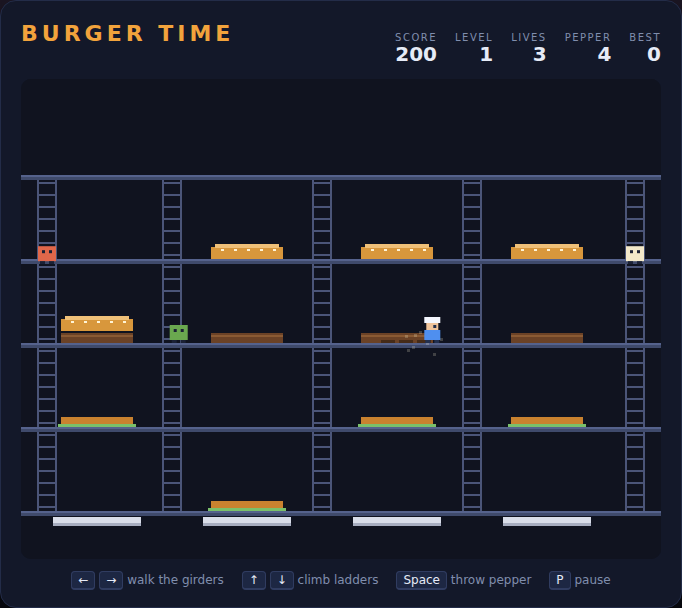
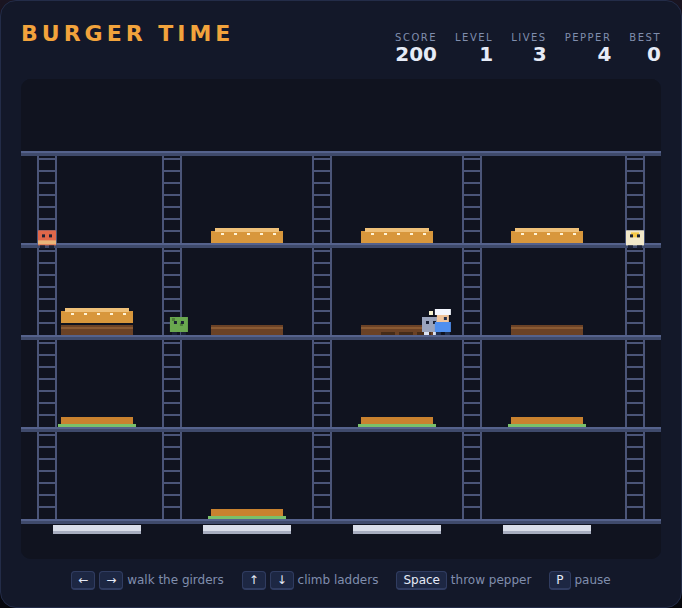
Fix girder overshoot when climbing and polish Burger Time visuals
A scripted bot playthrough surfaced a control bug: holding a climb key made an
actor re-grab the ladder in the same frame it landed, so releasing the key one
frame late carried the chef past the girder it was aiming for and it could get
stuck bouncing between floors.

- Climbing now settles onto the nearest girder when vertical intent stops, so a
  climb always ends somewhere you can walk; holding the key still rides the
  ladder girder after girder. Ladder travel is bounded by the actual ladder run
  (shaftTop / shaftBottom) and girder arrival is detected by crossing rather
  than by a float distance compare.
- Taller lattice (girders now fill the canvas), clearer pepper cloud drawn above
  the actors, and per-kind enemy detailing.
- 3 new tests for the settle behaviour and pepper cloud rendering (91 total).

Claude-Session: https://claude.ai/code/session_01YVVs9MuGAbQecB4DKXg1Yg

Changed region(s): [[0.0308, 0.375, 0.9853, 0.6875], [0.0308, 0.8125, 0.9853, 0.9062], [0.0308, 0.25, 0.9853, 0.3125]]

diff --git a/BurgerTime/game.js b/BurgerTime/game.js
@@ -140,6 +140,24 @@ function ladderNear(x, from, to) {
     return best;
 }
 
+function nearestFloorIndex(y) {
+    const f = Math.round((y - FLOOR_TOP) / FLOOR_GAP);
+    return Math.max(0, Math.min(PLATE_FLOOR, f));
+}
+
+// How far a continuous ladder run at column `x` reaches above / below `y`.
+function shaftTop(x, y) {
+    let f = Math.max(0, Math.min(PLATE_FLOOR, Math.floor((y - FLOOR_TOP) / FLOOR_GAP)));
+    while (f > 0 && hasLadder(x, f, f - 1)) f -= 1;
+    return f;
+}
+
+function shaftBottom(x, y) {
+    let f = Math.max(0, Math.min(PLATE_FLOOR, Math.ceil((y - FLOOR_TOP) / FLOOR_GAP)));
+    while (f < PLATE_FLOOR && hasLadder(x, f, f + 1)) f += 1;
+    return f;
+}
+
 function nearestLadderX(x, from, to) {
     let best = null;
     for (const lx of LADDER_XS) {
@@ -285,21 +303,27 @@ function setChefTo(x, floor) {
 // ladder when there is vertical intent and a ladder within reach.
 function moveActor(a, dt, speed, climbSpeed) {
     if (a.climbing) {
-        // Reversing direction mid-climb swaps the destination girder.
-        if (a.dirY !== 0) {
-            const want = a.dirY > 0 ? Math.max(a.climbFrom, a.climbTo) : Math.min(a.climbFrom, a.climbTo);
-            if (a.climbTo !== want) {
-                const from = a.climbTo;
-                a.climbTo = a.climbFrom;
-                a.climbFrom = from;
-            }
+        // Vertical intent keeps the climb going — hold "up" and you ride the
+        // ladder girder after girder. Releasing it settles onto whichever girder
+        // is nearest, so a climb always ends somewhere you can walk.
+        const settleY = floorY(nearestFloorIndex(a.y));
+        const dir = a.dirY !== 0 ? a.dirY : Math.sign(settleY - a.y);
+        if (dir === 0) {
+            a.floor = nearestFloorIndex(a.y);
+            a.climbing = false;
+            return;
         }
-        const targetY = floorY(a.climbTo);
-        const dir = targetY > a.y ? 1 : -1;
-        a.y += dir * climbSpeed * dt;
-        if ((targetY - a.y) * dir <= 0) {
-            a.y = targetY;
-            a.floor = a.climbTo;
+        const prevY = a.y;
+        const top = floorY(shaftTop(a.x, a.y));
+        const bottom = floorY(shaftBottom(a.x, a.y));
+        a.y = Math.max(top, Math.min(bottom, a.y + dir * climbSpeed * dt));
+
+        // Reaching a girder ends the climb; if the key is still held the ladder
+        // is grabbed again on the next sub-step and the climb carries on.
+        const gy = floorY(nearestFloorIndex(a.y));
+        if (prevY !== gy && (prevY - gy) * (a.y - gy) <= 0) {
+            a.y = gy;
+            a.floor = nearestFloorIndex(gy);
             a.climbing = false;
         }
         return;
@@ -667,18 +691,6 @@ function draw() {
     // Burger layers.
     for (const ing of ingredients) drawLayer(ing);
 
-    // Pepper clouds.
-    for (const cloud of peppers) {
-        ctx.globalAlpha = Math.max(0.15, cloud.life / PEPPER_LIFE);
-        ctx.fillStyle = '#f6f2d0';
-        for (let i = 0; i < 8; i++) {
-            const px = cloud.x - cloud.w / 2 + ((i * 7 + 3) % cloud.w);
-            const py = cloud.y - cloud.h / 2 + ((i * 11 + 5) % cloud.h);
-            ctx.fillRect(px, py, 3, 3);
-        }
-        ctx.globalAlpha = 1;
-    }
-
     // Enemies.
     for (const e of enemies) {
         if (e.dead) continue;
@@ -687,6 +699,19 @@ function draw() {
 
     // Chef.
     drawChef();
+
+    // Pepper clouds.
+    for (const cloud of peppers) {
+        const fade = Math.max(0.2, cloud.life / PEPPER_LIFE);
+        ctx.globalAlpha = fade;
+        for (let i = 0; i < 22; i++) {
+            const px = cloud.x - cloud.w / 2 + ((i * 13 + 5) % cloud.w);
+            const py = cloud.y - cloud.h + ((i * 17 + 7) % cloud.h);
+            ctx.fillStyle = i % 3 === 0 ? '#fff8dc' : '#cbb98a';
+            ctx.fillRect(px, py, 4, 4);
+        }
+        ctx.globalAlpha = 1;
+    }
 }
 
 function drawLadder(x, yTop, yBottom) {
@@ -753,6 +778,23 @@ function drawEnemy(e) {
     const y = e.y;
     ctx.fillStyle = e.stun > 0 ? '#9aa4bd' : (ENEMY_STYLE[e.kind] || '#e0674a');
     ctx.fillRect(x - 9, y - 18, 18, 15);
+
+    // A little shape per kind: the hot dog gets a bun, the egg a white top, the
+    // pickle its bumps.
+    if (e.stun === 0) {
+        if (e.kind === 'dog') {
+            ctx.fillStyle = '#e8b57a';
+            ctx.fillRect(x - 9, y - 8, 18, 4);
+        } else if (e.kind === 'egg') {
+            ctx.fillStyle = '#f7c948';
+            ctx.fillRect(x - 4, y - 16, 8, 5);
+        } else {
+            ctx.fillStyle = '#4d7f38';
+            ctx.fillRect(x - 7, y - 17, 3, 3);
+            ctx.fillRect(x + 1, y - 12, 3, 3);
+        }
+    }
+
     ctx.fillStyle = '#1b2135';
     ctx.fillRect(x - 5, y - 14, 3, 3);
     ctx.fillRect(x + 2, y - 14, 3, 3);

diff --git a/BurgerTime/tests/burgertime.spec.js b/BurgerTime/tests/burgertime.spec.js
@@ -252,7 +252,7 @@ test.describe('Burger Time', () => {
             expect(c.y).toBeCloseTo(c.target, 3);
         });
 
-        test('a climb finishes on the girder when the player lets go', async ({ page }) => {
+        test('letting go early in a climb settles back onto the girder below', async ({ page }) => {
             const c = await page.evaluate(() => {
                 startGame();
                 enemies.length = 0;
@@ -261,11 +261,46 @@ test.describe('Burger Time', () => {
                 for (let i = 0; i < 5; i++) step(0.016);
                 moveChef(0, 0);
                 for (let i = 0; i < 200; i++) step(0.016);
+                return { floor: chef.floor, y: chef.y, target: floorY(PLATE_FLOOR), climbing: chef.climbing };
+            });
+            expect(c.floor).toBe(await page.evaluate(() => PLATE_FLOOR));
+            expect(c.y).toBeCloseTo(c.target, 3);
+            expect(c.climbing).toBe(false);
+        });
+
+        test('letting go late in a climb settles onto the girder above', async ({ page }) => {
+            const c = await page.evaluate(() => {
+                startGame();
+                enemies.length = 0;
+                setChefTo(LADDER_XS[0], PLATE_FLOOR);
+                moveChef(0, -1);
+                for (let i = 0; i < 40; i++) step(0.016);
+                moveChef(0, 0);
+                for (let i = 0; i < 200; i++) step(0.016);
                 return { floor: chef.floor, y: chef.y, target: floorY(PLATE_FLOOR - 1), climbing: chef.climbing };
             });
             expect(c.floor).toBe((await page.evaluate(() => PLATE_FLOOR)) - 1);
             expect(c.y).toBeCloseTo(c.target, 3);
             expect(c.climbing).toBe(false);
+        });
+
+        test('a chef who stops climbing can walk again', async ({ page }) => {
+            const moved = await page.evaluate(() => {
+                startGame();
+                enemies.length = 0;
+                setChefTo(LADDER_XS[0], PLATE_FLOOR);
+                moveChef(0, -1);
+                // Climb one girder, then react a frame late — as a player would.
+                let guard = 0;
+                while (chef.floor === PLATE_FLOOR && guard++ < 300) step(0.016);
+                step(0.016);
+                moveChef(1, 0);
+                const x0 = chef.x;
+                for (let i = 0; i < 60; i++) step(0.016);
+                return { dx: chef.x - x0, floor: chef.floor, climbing: chef.climbing };
+            });
+            expect(moved.climbing).toBe(false);
+            expect(moved.dx).toBeGreaterThan(20);
         });
 
         test('the chef snaps onto the ladder column while climbing', async ({ page }) => {
@@ -1086,6 +1121,26 @@ test.describe('Burger Time', () => {
                 return false;
             });
             expect(painted).toBe(true);
+        });
+
+        test('a pepper cloud is painted in front of the chef', async ({ page }) => {
+            const diff = await page.evaluate(() => {
+                startGame();
+                enemies.length = 0;
+                setChefTo(300, 2);
+                moveChef(1, 0);
+                step(0.016);
+                draw();
+                const box = [320, floorY(2) - PEPPER_H, 60, PEPPER_H];
+                const before = ctx.getImageData(...box).data.slice();
+                firePepper();
+                draw();
+                const after = ctx.getImageData(...box).data;
+                let changed = 0;
+                for (let i = 0; i < after.length; i += 4) if (after[i] !== before[i]) changed += 1;
+                return changed;
+            });
+            expect(diff).toBeGreaterThan(0);
         });
 
         test('no console errors during play', async ({ page }) => {

diff --git a/BurgerTime/DESIGN.md b/BurgerTime/DESIGN.md
@@ -24,6 +24,11 @@ an enemy squashes it for a large bonus.
   interpolates between girders while climbing. `moveActor()` is shared by the
   chef and the enemies: walk when there is horizontal intent, grab a ladder when
   there is vertical intent and a ladder within `LADDER_SNAP` pixels.
+- Holding a climb key rides the ladder girder after girder: reaching a girder
+  ends the climb, and the ladder is grabbed again on the next sub-step while the
+  key is still down. **Releasing** it settles onto whichever girder is nearest,
+  so a climb always ends somewhere the actor can walk — a player who reacts a
+  frame late still stops on the girder they aimed for instead of overshooting.
 
 ### Burger layers
 
@@ -77,7 +82,7 @@ an enemy squashes it for a large bonus.
   advanced through `step(dt)`, which runs fixed 1/240 s sub-steps; the render
   loop and the tests call the same `step()`, so tests are deterministic and never
   depend on `requestAnimationFrame` timing.
-- `tests/burgertime.spec.js` — 88 Playwright tests written before the
+- `tests/burgertime.spec.js` — 91 Playwright tests written before the
   implementation, covering the idle screen, movement, ladders, treading and
   dropping, pile stacking, plating, pepper, enemy chase/stun/squash, lives,
   levels, HUD, scoring, pause/restart and a rendering smoke test.
